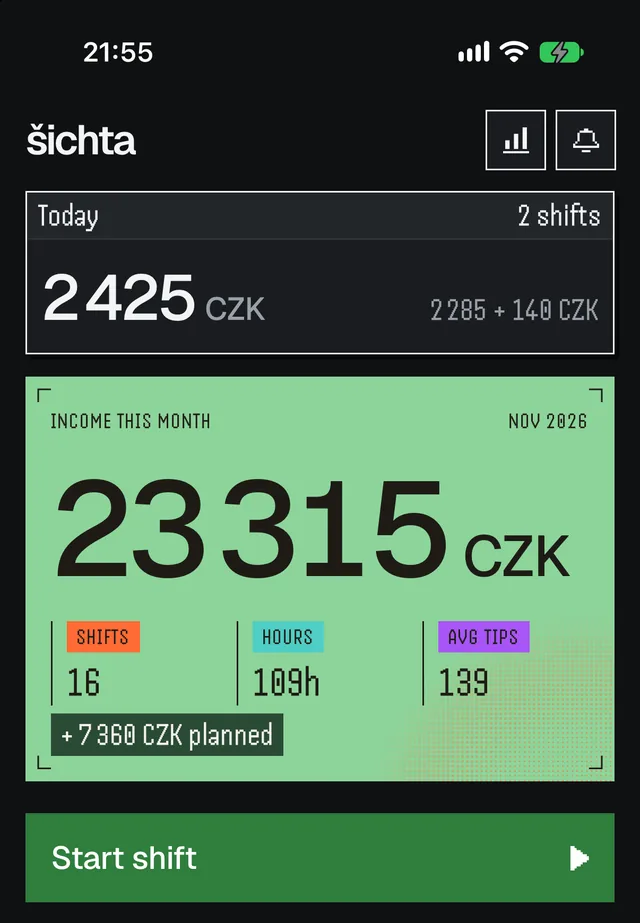
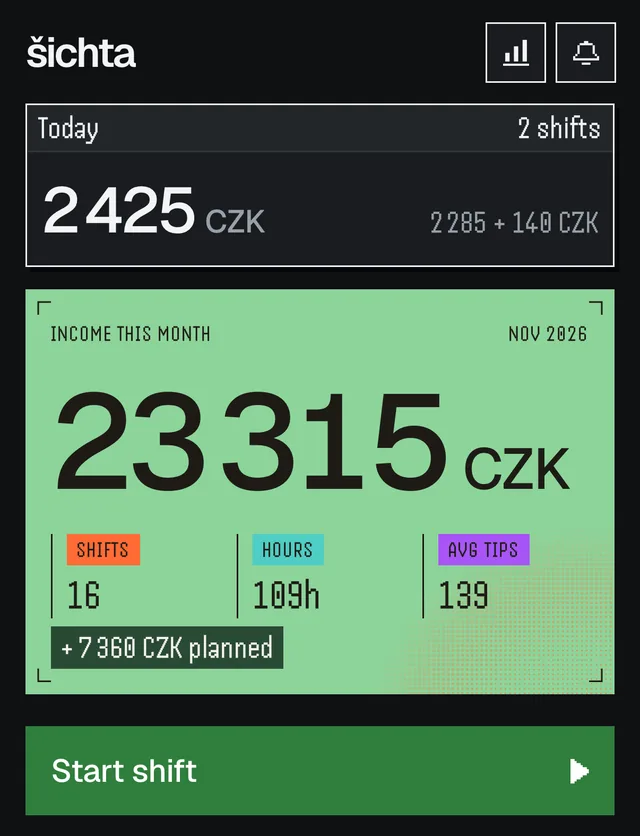
Landing: crop the status bar from the app screenshots
The clock, Dynamic Island, signal and battery are cut from all screenshots
and the link-preview images; the live card's overlay follows the crop.

diff --git a/index.html b/index.html
@@ -16,7 +16,7 @@
 <meta property="og:title" content="šichta — víš přesně, kolik máš dnes vyděláno">
 <meta property="og:description" content="šichta je osobní přehled směn a výdělku pro brigády, dohody i HPP. Stopky, dýška, odhad čisté mzdy, výplaty a widgety. Beta pro iPhone na TestFlightu.">
 <meta property="og:url" content="https://theanhgen.github.io/sichta-legal/">
-<meta property="og:image" content="https://theanhgen.github.io/sichta-legal/assets/img/og-cs.png">
+<meta property="og:image" content="https://theanhgen.github.io/sichta-legal/assets/img/og-cs.png?v=5">
 <meta property="og:image:width" content="1200">
 <meta property="og:image:height" content="630">
 <meta property="og:image:alt" content="šichta — osobní přehled směn a výdělku">
@@ -25,8 +25,8 @@
 <link rel="apple-touch-icon" href="assets/img/apple-touch-icon.png">
 <link rel="preload" href="assets/fonts/Geist-Medium.woff2" as="font" type="font/woff2" crossorigin>
 <link rel="preload" href="assets/fonts/Handjet-Medium.woff2" as="font" type="font/woff2" crossorigin>
-<link rel="stylesheet" href="assets/site.css?v=4">
-<script src="assets/site.js?v=4" defer></script>
+<link rel="stylesheet" href="assets/site.css?v=5">
+<script src="assets/site.js?v=5" defer></script>
 </head>
 <body>
 <a class="skip" href="#main">Přeskočit na obsah</a>
@@ -62,9 +62,8 @@
 <figure class="win">
 <figcaption class="win-bar"><span>Směna běží</span><span aria-hidden="true">×</span></figcaption>
 <div class="live" data-live="cs">
-<img src="assets/img/run-cs.webp" data-live-src="assets/img/run-cs-live.webp" width="640" height="923" alt="Běžící směna: čas, zatím vyděláno 460 CZK, 170 CZK/h, 54 % plánu" decoding="async">
-<svg class="live-ov" viewBox="0 0 1206 1740" aria-hidden="true" focusable="false">
-<text class="lv-sb" data-k="clock" x="155.7" y="116">21:54</text>
+<img src="assets/img/run-cs.webp?v=5" data-live-src="assets/img/run-cs-live.webp?v=5" width="640" height="836" alt="Běžící směna: čas, zatím vyděláno 460 CZK, 170 CZK/h, 54 % plánu" decoding="async">
+<svg class="live-ov" viewBox="0 165 1206 1575" aria-hidden="true" focusable="false">
 <text class="lv-timer" data-k="timer" x="96" y="680">2:42:27</text>
 <text class="lv-int" data-k="int" x="96.4" y="900">460</text>
 <svg class="lv-cents" x="395" y="805" width="146" height="119" viewBox="0 0 146 119" overflow="hidden"><g class="lv-roll" data-k="c0"></g><g class="lv-roll" data-k="c1"></g></svg>
@@ -77,11 +76,11 @@
 </figure>
 <figure class="win">
 <figcaption class="win-bar"><span>Příjmy tento měsíc</span><span aria-hidden="true">×</span></figcaption>
-<img src="assets/img/month-cs.webp" width="640" height="923" alt="Domovská obrazovka: příjmy tento měsíc 20 160 CZK, 14 směn, 98 hodin" loading="lazy" decoding="async">
+<img src="assets/img/month-cs.webp?v=5" width="640" height="836" alt="Domovská obrazovka: příjmy tento měsíc 20 160 CZK, 14 směn, 98 hodin" loading="lazy" decoding="async">
 </figure>
 <figure class="win">
 <figcaption class="win-bar"><span>Tmavý režim</span><span aria-hidden="true">×</span></figcaption>
-<img src="assets/img/dark-cs.webp" width="640" height="923" alt="Domovská obrazovka v tmavém režimu: dnes 2 425 CZK, měsíc 23 315 CZK, naplánované směny" loading="lazy" decoding="async">
+<img src="assets/img/dark-cs.webp?v=5" width="640" height="836" alt="Domovská obrazovka v tmavém režimu: dnes 2 425 CZK, měsíc 23 315 CZK, naplánované směny" loading="lazy" decoding="async">
 </figure>
 </div>
 </section>

diff --git a/index.en.html b/index.en.html
@@ -16,7 +16,7 @@
 <meta property="og:title" content="šichta — know exactly what you earned today">
 <meta property="og:description" content="šichta is a personal log of your shifts and earnings for side jobs, agreements and full-time work. Timer, tips, net pay estimate, paydays and widgets. iPhone beta on TestFlight.">
 <meta property="og:url" content="https://theanhgen.github.io/sichta-legal/index.en.html">
-<meta property="og:image" content="https://theanhgen.github.io/sichta-legal/assets/img/og-en.png">
+<meta property="og:image" content="https://theanhgen.github.io/sichta-legal/assets/img/og-en.png?v=5">
 <meta property="og:image:width" content="1200">
 <meta property="og:image:height" content="630">
 <meta property="og:image:alt" content="šichta — your personal log of shifts and earnings">
@@ -25,8 +25,8 @@
 <link rel="apple-touch-icon" href="assets/img/apple-touch-icon.png">
 <link rel="preload" href="assets/fonts/Geist-Medium.woff2" as="font" type="font/woff2" crossorigin>
 <link rel="preload" href="assets/fonts/Handjet-Medium.woff2" as="font" type="font/woff2" crossorigin>
-<link rel="stylesheet" href="assets/site.css?v=4">
-<script src="assets/site.js?v=4" defer></script>
+<link rel="stylesheet" href="assets/site.css?v=5">
+<script src="assets/site.js?v=5" defer></script>
 </head>
 <body>
 <a class="skip" href="#main">Skip to content</a>
@@ -62,9 +62,8 @@
 <figure class="win">
 <figcaption class="win-bar"><span>Shift running</span><span aria-hidden="true">×</span></figcaption>
 <div class="live" data-live="en">
-<img src="assets/img/run-en.webp" data-live-src="assets/img/run-en-live.webp" width="640" height="923" alt="A running shift: timer, 460 CZK earned so far, 170 CZK/h, 54% of plan" decoding="async">
-<svg class="live-ov" viewBox="0 0 1206 1740" aria-hidden="true" focusable="false">
-<text class="lv-sb" data-k="clock" x="155.7" y="116">21:54</text>
+<img src="assets/img/run-en.webp?v=5" data-live-src="assets/img/run-en-live.webp?v=5" width="640" height="836" alt="A running shift: timer, 460 CZK earned so far, 170 CZK/h, 54% of plan" decoding="async">
+<svg class="live-ov" viewBox="0 165 1206 1575" aria-hidden="true" focusable="false">
 <text class="lv-timer" data-k="timer" x="96" y="680">2:42:27</text>
 <text class="lv-int" data-k="int" x="96.4" y="900">460</text>
 <svg class="lv-cents" x="395" y="805" width="146" height="119" viewBox="0 0 146 119" overflow="hidden"><g class="lv-roll" data-k="c0"></g><g class="lv-roll" data-k="c1"></g></svg>
@@ -77,11 +76,11 @@
 </figure>
 <figure class="win">
 <figcaption class="win-bar"><span>Income this month</span><span aria-hidden="true">×</span></figcaption>
-<img src="assets/img/month-en.webp" width="640" height="923" alt="Home screen: income this month 20,160 CZK, 14 shifts, 98 hours" loading="lazy" decoding="async">
+<img src="assets/img/month-en.webp?v=5" width="640" height="836" alt="Home screen: income this month 20,160 CZK, 14 shifts, 98 hours" loading="lazy" decoding="async">
 </figure>
 <figure class="win">
 <figcaption class="win-bar"><span>Dark mode</span><span aria-hidden="true">×</span></figcaption>
-<img src="assets/img/dark-en.webp" width="640" height="923" alt="Home screen in dark mode: today 2,425 CZK, month 23,315 CZK, upcoming planned shifts" loading="lazy" decoding="async">
+<img src="assets/img/dark-en.webp?v=5" width="640" height="836" alt="Home screen in dark mode: today 2,425 CZK, month 23,315 CZK, upcoming planned shifts" loading="lazy" decoding="async">
 </figure>
 </div>
 </section>

diff --git a/assets/site.css b/assets/site.css
@@ -83,14 +83,13 @@ main section[id] { scroll-margin-top: 48px; }
 .stage > figure:nth-child(3) { margin-top: 96px; }
 .win { margin: 0; background: var(--panel); border: 1px solid var(--ink); box-shadow: 3px 3px 0 var(--shadow); }
 .win-bar { display: flex; justify-content: space-between; align-items: center; gap: 8px; background: var(--ink); color: var(--bg); font-family: var(--mono); font-weight: 500; font-size: 20px; line-height: 1; padding: 4px 8px; }
-.win img { width: 100%; aspect-ratio: 640 / 923; background: var(--bg); }
+.win img { width: 100%; aspect-ratio: 640 / 836; background: var(--bg); }
 /* Live running card: SVG text over a screenshot with the changing parts removed */
 .live { position: relative; }
 .live-ov { position: absolute; inset: 0; width: 100%; height: 100%; visibility: hidden; }
 .live.on .live-ov { visibility: visible; }
 .live-ov text { font-variant-ligatures: none; }
 .lv-cents { overflow: hidden; }
-.lv-sb { font-family: -apple-system, 'SF Pro Text', system-ui, sans-serif; font-weight: 600; font-size: 51.6px; fill: #000; }
 .lv-timer { font-family: 'Handjet', ui-monospace, monospace; font-weight: 500; font-size: 265px; fill: #1E1B16; }
 .lv-int { font-family: 'Geist', system-ui, sans-serif; font-weight: 500; font-size: 165px; letter-spacing: -14px; fill: #1E1B16; }
 .lv-roll { transition: transform .16s ease-out; }

diff --git a/assets/site.js b/assets/site.js
@@ -58,7 +58,6 @@
       set(q('int'), String(whole));
       roll(slots[0], Math.floor(cents / 10));
       roll(slots[1], cents % 10);
-      set(q('clock'), hm(now));
       var start = new Date(now.getTime() - el * 1000), end = new Date(start.getTime() + PLAN * 1000);
       set(q('start'), lang === 'cs' ? 'Začátek ' + hm(start) + ' → plán ' + hm(end)
                                     : 'Started ' + hm(start) + ' → plan ' + hm(end));
